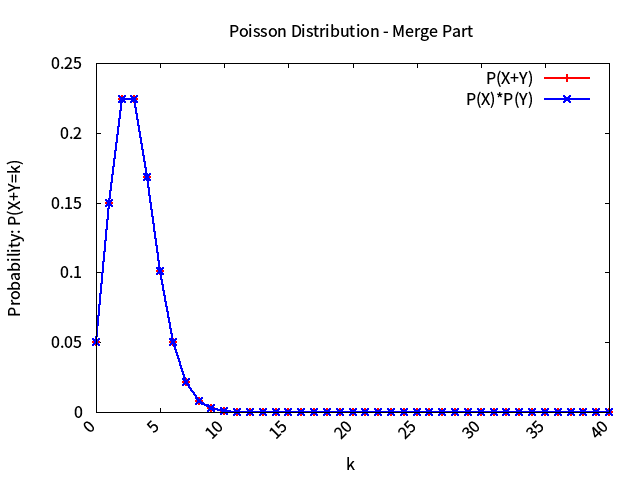
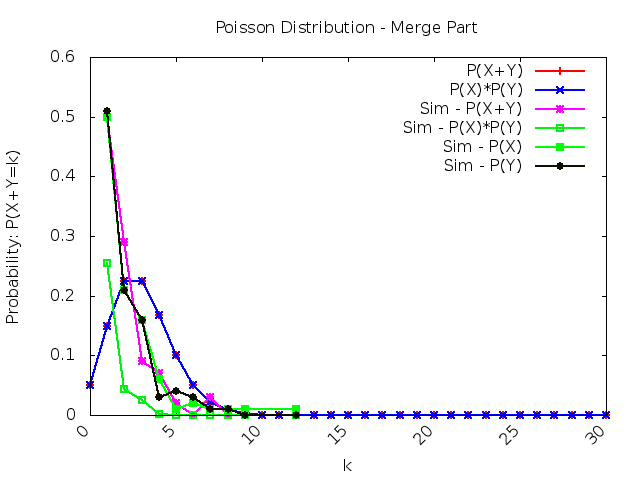
Add simulation of part A.

diff --git a/poisson_distribution/part_a.cc b/poisson_distribution/part_a.cc
@@ -3,6 +3,11 @@
 #include "../utils/poisson.h"
 #include "../utils/parse_arg.h"
 
+// For gathering simulation result
+struct multi{
+    int x,y,s;
+};
+
 int main(int argc,char *argv[]){
     // create parsing args object
     parse_args *args = new parse_args();
@@ -46,7 +51,11 @@ int main(int argc,char *argv[]){
     // ===================================== Simulation Part ===================================== 
     int simulation_time = std::atoi(args->get_args_val("s").val.c_str());
 
-    std::map<int,int> x,y,S;
+    std::map<int,int> x,y,S; 
+    std::map<int,multi> sim;
+
+    FILE *fpx;
+    fpx=fopen("output/part_a_sim.output","w+");
 
     for(int i=0;i<simulation_time;i++){
         x[poisson_rand_gen(lambda1)]++;
@@ -54,16 +63,20 @@ int main(int argc,char *argv[]){
         S[poisson_rand_gen(lambda1+lambda2)]++;
     }
 
-    /*for(auto& it: x){
-        printf("%d %d\n",it.first,it.second);
+    for(auto& it: x){
+        sim[it.first].x=it.second;
     }
 
     for(auto& it: y){
-        printf("%d %d\n",it.first,it.second);
-    }*/
+        sim[it.first].y=it.second;
+    }
 
     for(auto& it: S){
-        printf("%d %d\n",it.first,it.second);
+        sim[it.first].s=it.second;
+    }
+
+    for(auto& it: sim){
+        fprintf(fpx,"%d %f %f %f %f\n",it.first,(float)it.second.s/simulation_time,(float)(it.second.x*it.second.y)/(simulation_time*simulation_time),(float)it.second.x/simulation_time,(float)it.second.y/simulation_time);
     }
 
     return 0;
